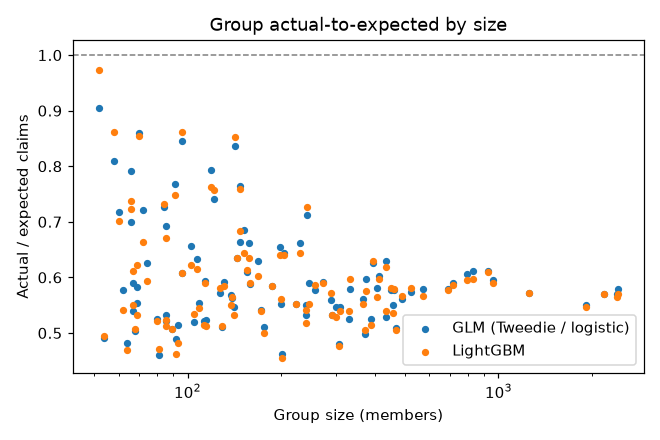
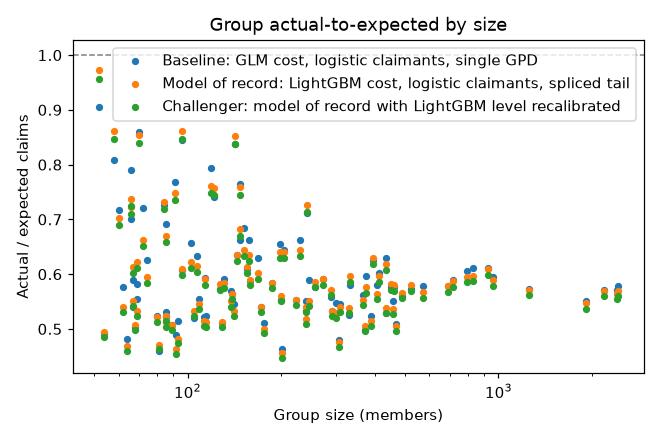
Regenerate Sample 2 results with pricing variants

diff --git a/docs/results.md b/docs/results.md
@@ -94,18 +94,24 @@ Generalized Pareto above $25,000 on training members' 2009 cost: shape ξ = 0.10
 
 | Models | Size band | Groups | Members | Priced loss ratio | Actual loss ratio | Claims actual / expected | Specific actual / expected | Aggregate hits (expected) |
 |---|---|---|---|---|---|---|---|---|
-| GLM (Tweedie / logistic) | 50-99 | 28 | 2,095 | 0.868 | 0.542 [0.509–0.586] | 0.62 [0.59–0.67] | 0.53 [0.35–0.74] | 0 (1.0) |
-| GLM (Tweedie / logistic) | 100-249 | 37 | 5,950 | 0.869 | 0.526 [0.504–0.551] | 0.61 [0.58–0.63] | 0.26 [0.12–0.45] | 0 (0.5) |
-| GLM (Tweedie / logistic) | 250-499 | 23 | 8,608 | 0.870 | 0.486 [0.472–0.501] | 0.56 [0.54–0.58] | 0.24 [0.16–0.33] | 0 (0.0) |
-| GLM (Tweedie / logistic) | 500-999 | 8 | 6,018 | 0.870 | 0.518 [0.508–0.526] | 0.60 [0.58–0.60] | 0.16 [0.00–0.38] | 0 (0.0) |
-| GLM (Tweedie / logistic) | 1000-2500 | 5 | 10,162 | 0.870 | 0.494 [0.486–0.500] | 0.57 [0.56–0.58] | 0.00 [0.00–0.00] | 0 (0.0) |
-| GLM (Tweedie / logistic) | All | 101 | 32,833 | 0.869 | 0.505 [0.498–0.514] | 0.58 [0.57–0.59] | 0.32 [0.23–0.41] | 0 (1.5) |
-| LightGBM | 50-99 | 28 | 2,095 | 0.868 | 0.537 [0.502–0.582] | 0.62 [0.58–0.67] | 0.49 [0.32–0.68] | 0 (1.1) |
-| LightGBM | 100-249 | 37 | 5,950 | 0.869 | 0.519 [0.497–0.545] | 0.60 [0.57–0.63] | 0.25 [0.12–0.43] | 0 (0.5) |
-| LightGBM | 250-499 | 23 | 8,608 | 0.870 | 0.485 [0.471–0.499] | 0.56 [0.54–0.57] | 0.23 [0.16–0.32] | 0 (0.0) |
-| LightGBM | 500-999 | 8 | 6,018 | 0.870 | 0.513 [0.506–0.520] | 0.59 [0.58–0.60] | 0.15 [0.00–0.36] | 0 (0.0) |
-| LightGBM | 1000-2500 | 5 | 10,162 | 0.870 | 0.491 [0.483–0.496] | 0.56 [0.56–0.57] | 0.00 [0.00–0.00] | 0 (0.0) |
-| LightGBM | All | 101 | 32,833 | 0.869 | 0.501 [0.494–0.510] | 0.58 [0.57–0.59] | 0.30 [0.22–0.39] | 0 (1.6) |
+| Baseline: GLM cost, logistic claimants, single GPD | 50-99 | 28 | 2,095 | 0.868 | 0.542 [0.509–0.586] | 0.62 [0.59–0.67] | 0.53 [0.35–0.74] | 0 (1.0) |
+| Baseline: GLM cost, logistic claimants, single GPD | 100-249 | 37 | 5,950 | 0.869 | 0.526 [0.504–0.551] | 0.61 [0.58–0.63] | 0.26 [0.12–0.45] | 0 (0.5) |
+| Baseline: GLM cost, logistic claimants, single GPD | 250-499 | 23 | 8,608 | 0.870 | 0.486 [0.472–0.501] | 0.56 [0.54–0.58] | 0.24 [0.16–0.33] | 0 (0.0) |
+| Baseline: GLM cost, logistic claimants, single GPD | 500-999 | 8 | 6,018 | 0.870 | 0.518 [0.508–0.526] | 0.60 [0.58–0.60] | 0.16 [0.00–0.38] | 0 (0.0) |
+| Baseline: GLM cost, logistic claimants, single GPD | 1000-2500 | 5 | 10,162 | 0.870 | 0.494 [0.486–0.500] | 0.57 [0.56–0.58] | 0.00 [0.00–0.00] | 0 (0.0) |
+| Baseline: GLM cost, logistic claimants, single GPD | All | 101 | 32,833 | 0.869 | 0.505 [0.498–0.514] | 0.58 [0.57–0.59] | 0.32 [0.23–0.41] | 0 (1.5) |
+| Model of record: LightGBM cost, logistic claimants, spliced tail | 50-99 | 28 | 2,095 | 0.868 | 0.537 [0.502–0.582] | 0.62 [0.58–0.67] | 0.53 [0.35–0.74] | 0 (1.1) |
+| Model of record: LightGBM cost, logistic claimants, spliced tail | 100-249 | 37 | 5,950 | 0.869 | 0.519 [0.497–0.545] | 0.60 [0.57–0.63] | 0.27 [0.13–0.47] | 0 (0.5) |
+| Model of record: LightGBM cost, logistic claimants, spliced tail | 250-499 | 23 | 8,608 | 0.870 | 0.485 [0.471–0.499] | 0.56 [0.54–0.57] | 0.25 [0.17–0.34] | 0 (0.0) |
+| Model of record: LightGBM cost, logistic claimants, spliced tail | 500-999 | 8 | 6,018 | 0.870 | 0.513 [0.506–0.520] | 0.59 [0.58–0.60] | 0.21 [0.00–0.49] | 0 (0.0) |
+| Model of record: LightGBM cost, logistic claimants, spliced tail | 1000-2500 | 5 | 10,162 | 0.870 | 0.491 [0.483–0.496] | 0.56 [0.56–0.57] | 0.00 [0.00–0.00] | 0 (0.0) |
+| Model of record: LightGBM cost, logistic claimants, spliced tail | All | 101 | 32,833 | 0.869 | 0.501 [0.494–0.510] | 0.58 [0.57–0.59] | 0.33 [0.24–0.42] | 0 (1.6) |
+| Challenger: model of record with LightGBM level recalibrated | 50-99 | 28 | 2,095 | 0.868 | 0.528 [0.493–0.572] | 0.61 [0.57–0.66] | 0.53 [0.35–0.74] | 0 (1.0) |
+| Challenger: model of record with LightGBM level recalibrated | 100-249 | 37 | 5,950 | 0.869 | 0.510 [0.488–0.535] | 0.59 [0.56–0.62] | 0.27 [0.13–0.47] | 0 (0.6) |
+| Challenger: model of record with LightGBM level recalibrated | 250-499 | 23 | 8,608 | 0.870 | 0.476 [0.463–0.490] | 0.55 [0.53–0.56] | 0.25 [0.17–0.34] | 0 (0.0) |
+| Challenger: model of record with LightGBM level recalibrated | 500-999 | 8 | 6,018 | 0.870 | 0.504 [0.497–0.511] | 0.58 [0.57–0.59] | 0.21 [0.00–0.49] | 0 (0.0) |
+| Challenger: model of record with LightGBM level recalibrated | 1000-2500 | 5 | 10,162 | 0.870 | 0.482 [0.475–0.487] | 0.55 [0.55–0.56] | 0.00 [0.00–0.00] | 0 (0.0) |
+| Challenger: model of record with LightGBM level recalibrated | All | 101 | 32,833 | 0.869 | 0.492 [0.485–0.501] | 0.57 [0.56–0.58] | 0.33 [0.24–0.42] | 0 (1.6) |
 
 ![Group A/E](figures/group_actual_to_expected.png)
 

diff --git a/docs/decisions.md b/docs/decisions.md
@@ -124,3 +124,14 @@ pre-registered rules:
 - **Tail: spliced** (GPD above $25k up to $100k, second GPD above $100k).
 The main `kedro run` still produces the original frozen Sample 2 outputs; the adopted tail lives
 in the `retest` pipeline until it is wired into pricing.
+
+## 2026-10-05: adopted models wired into the main pipeline
+
+Main `kedro run` pricing now compares named configurations (`pricing_variants`): the frozen
+baseline (GLM, logistic, single GPD), the model of record (LightGBM cost, logistic claimants,
+spliced tail) and a challenger (model of record with LightGBM's level recalibrated). The upper GPD
+is fit on this run's training members plus already-seen samples listed in
+`upper_tail.extra_features`; with fewer than 30 costs above $100k it falls back to the single GPD.
+The level factor per cost model is total actual / total predicted on already-seen samples scored
+by the frozen models (`level_calibration.files`: Samples 3 and 4; LightGBM 1.018, GLM 0.999).
+Retraining reproduces the frozen models exactly (same metrics to the dollar).
